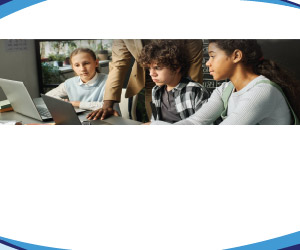
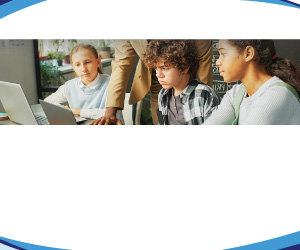
Add files via upload

Changed region(s): [[0.0, 0.14, 1.0, 0.504]]

diff --git a/BlueAlley/project_07/300x250_v2/initial.css b/BlueAlley/project_07/300x250_v2/initial.css
@@ -55,7 +55,7 @@ div,img,svg{
 }
 /******************** CTA ********************/
 #cta {
-    top: 213px;
+    top: 212px;
     left: 60px;
     width: 170px;
     height: 18px;
@@ -106,7 +106,7 @@ div,img,svg{
 
 /********************** text **********************/
 #text_head{
-    top: 136px; 
+    top: 138px; 
     left: 0px;
     width: 300px;
     height: auto;
@@ -126,7 +126,7 @@ div,img,svg{
     user-select: none;
 }
 #text_sub{
-    top: 185px;
+    top: 187px;
     left: 0px;
     width: 300px;
     height: auto;
@@ -138,7 +138,7 @@ div,img,svg{
     letter-spacing: 0.6pt;
     line-height: 19px;
     text-align: center;
-    color:#479ad4;;
+    color:#479ad4;
     cursor: pointer;
     -webkit-user-select: none;
     -moz-user-select: none;

diff --git a/BlueAlley/project_07/300x600_v2/index.html b/BlueAlley/project_07/300x600_v2/index.html
@@ -31,8 +31,11 @@
         <div id="divider"></div>
         <img id="logo_cisco" class="clickable" src="logo_cisco.svg">
         <!-- text -->
-        <div id="text_head">Think E-Rate is<br>Too Complicated?</div>
-        <div id="text_sub">Cisco products make<br>filing easier.</div>
+        <!-- <div id="text_head">Think E-Rate is<br>Too Complicated?</div> -->
+        <!-- <div id="text_sub">Cisco products make<br>filing easier.</div> -->
+        <div id="text_head">Cisco Products<br>Make EdTech Easy</div>
+        <div id="text_sub">From Application<br>to Deployment</div>
+
 
         <div id="bgexit" class="clickable"></div>
          <div id="cta" class="clickable">Find out how schools<br>like yours got funded →</div>

diff --git a/BlueAlley/project_07/768x1024_v2/index.html b/BlueAlley/project_07/768x1024_v2/index.html
@@ -31,8 +31,10 @@
         <div id="divider"></div>
         <img id="logo_cisco" class="clickable" src="logo_cisco.svg">
         <!-- text -->
-        <div id="text_head">Think E-Rate is<br>Too Complicated?</div>
-        <div id="text_sub">Cisco products make<br>filing easier.</div>
+        <!-- <div id="text_head">Think E-Rate is<br>Too Complicated?</div> -->
+        <!-- <div id="text_sub">Cisco products make<br>filing easier.</div> -->
+        <div id="text_head">Cisco Products<br>Make EdTech Easy</div>
+        <div id="text_sub">From Application<br>to Deployment</div>
 
         <div id="bgexit" class="clickable"></div>
          <div id="cta" class="clickable">Find out how schools<br>like yours got funded →</div>

diff --git a/BlueAlley/project_07/728x90_v2/index.html b/BlueAlley/project_07/728x90_v2/index.html
@@ -31,8 +31,10 @@
         <div id="divider"></div>
         <img id="logo_cisco" class="clickable" src="logo_cisco_wht.svg">
         <!-- text -->
-        <div id="text_head">Think E-Rate is Too Complicated?</div>
-        <div id="text_sub">Cisco products make filing easier.</div>
+        <!-- <div id="text_head">Think E-Rate is Too Complicated?</div> -->
+        <!-- <div id="text_sub">Cisco products make filing easier.</div> -->
+        <div id="text_head">Cisco Products Make EdTech Easy</div>
+        <div id="text_sub">From Application to Deployment</div>
 
         <div id="bgexit" class="clickable"></div>
         <div id="cta" class="clickable">Find out how schools like yours got funded →</div>

diff --git a/BlueAlley/project_07/970x250_v2/index.html b/BlueAlley/project_07/970x250_v2/index.html
@@ -31,8 +31,10 @@
         <div id="divider"></div>
         <img id="logo_cisco" class="clickable" src="logo_cisco.svg">
         <!-- text -->
-        <div id="text_head">Think E-Rate is Too Complicated?</div>
-        <div id="text_sub">Cisco products make filing easier.</div>
+        <!-- <div id="text_head">Think E-Rate is Too Complicated?</div> -->
+        <!-- <div id="text_sub">Cisco products make filing easier.</div> -->
+        <div id="text_head">Cisco Products Make EdTech Easy</div>
+        <div id="text_sub">From Application to Deployment.</div>
 
         <div id="bgexit" class="clickable"></div>
         <div id="cta" class="clickable">Find out how schools like yours got funded →</div>

diff --git a/BlueAlley/project_07/600x250_v2/index.html b/BlueAlley/project_07/600x250_v2/index.html
@@ -31,8 +31,10 @@
         <div id="divider"></div>
         <img id="logo_cisco" class="clickable" src="logo_cisco.svg">
         <!-- text -->
-        <div id="text_head">Think E-Rate is Too Complicated?</div>
-        <div id="text_sub">Cisco products make filing easier.</div>
+        <!-- <div id="text_head">Think E-Rate is Too Complicated?</div> -->
+        <!-- <div id="text_sub">Cisco products make filing easier.</div> -->
+        <div id="text_head">Cisco Products Make EdTech Easy</div>
+        <div id="text_sub">From Application to Deployment</div>
 
         <div id="bgexit" class="clickable"></div>
         <div id="cta" class="clickable">Find out how schools like yours got funded →</div>

diff --git a/BlueAlley/project_07/320x250_v2/index.html b/BlueAlley/project_07/320x250_v2/index.html
@@ -32,8 +32,11 @@
         <div id="divider"></div>
         <img id="logo_cisco" class="clickable" src="logo_cisco.svg">
         <!-- text -->
-        <div id="text_head">Think E-Rate <br>is Too Complicated?</div>
-        <div id="text_sub">Cisco products make filing easier.</div>
+        <!-- <div id="text_head">Think E-Rate <br>is Too Complicated?</div> -->
+        <!-- <div id="text_sub">Cisco products make filing easier.</div> -->
+
+        <div id="text_head">Cisco Products<br>Make EdTech Easy</div>
+        <div id="text_sub">From Application to Deployment</div>
 
         <div id="bgexit" class="clickable"></div>
          <div id="cta" class="clickable">Find out how →</div>

diff --git a/BlueAlley/project_07/300x250_v2/index.html b/BlueAlley/project_07/300x250_v2/index.html
@@ -32,8 +32,10 @@
         <div id="divider"></div>
         <img id="logo_cisco" class="clickable" src="logo_cisco.svg">
         <!-- text -->
-        <div id="text_head">Think E-Rate <br>is Too Complicated?</div>
-        <div id="text_sub">Cisco products make filing easier.</div>
+        <!-- <div id="text_head">Think E-Rate <br>is Too Complicated?</div> -->
+        <!-- <div id="text_sub">Cisco products make filing easier.</div> -->
+        <div id="text_head">Cisco Products<br>Make EdTech Easy</div>
+        <div id="text_sub">From Application to Deployment</div>
 
         <div id="bgexit" class="clickable"></div>
          <div id="cta" class="clickable">Find out how →</div>

diff --git a/BlueAlley/project_07/320x100_v2/index.html b/BlueAlley/project_07/320x100_v2/index.html
@@ -32,8 +32,10 @@
         <div id="divider"></div>
         <img id="logo_cisco" class="clickable" src="logo_cisco.svg">
         <!-- text -->
-        <div id="text_head">Think E-Rate is Too Complicated?</div>
-        <div id="text_sub">Cisco products make filing easier.</div>
+        <!-- <div id="text_head">Think E-Rate is Too Complicated?</div> -->
+        <!-- <div id="text_sub">Cisco products make filing easier.</div> -->
+        <div id="text_head">Cisco Products Make EdTech Easy</div>
+        <div id="text_sub">From Application to Deployment</div>
 
         <div id="bgexit" class="clickable"></div>
          <div id="cta" class="clickable">Find out how →</div>
